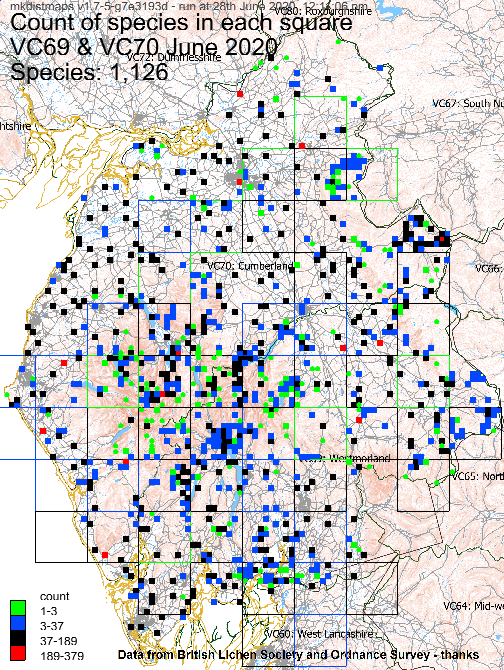
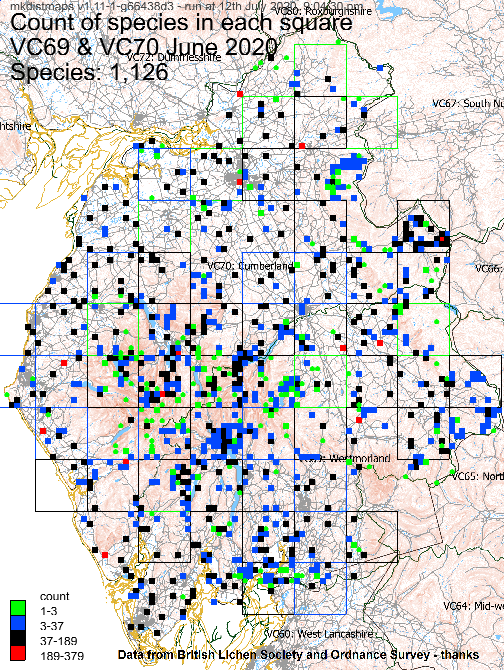
Fix hectad outline bug

diff --git a/mkdistmaps.js b/mkdistmaps.js
@@ -717,7 +717,7 @@ async function make_images(rowCount) {
 
       // Draw solid or round box (and optional hectad outline)
       if (SCALE.gridreffigs === 4 && box.length === hectadboxlen) {
-        ctx.strokeRect(boxloc.x, boxloc.y, boxwidth2, boxwidth2)
+        ctx.strokeRect(boxloc.x, boxloc.y - boxwidth2 + boxwidth2/10, boxwidth2, boxwidth2)
       } else {
         if (boxdata.count === 1 && config.useMonadsNotHectads) {
           ctx.beginPath()
